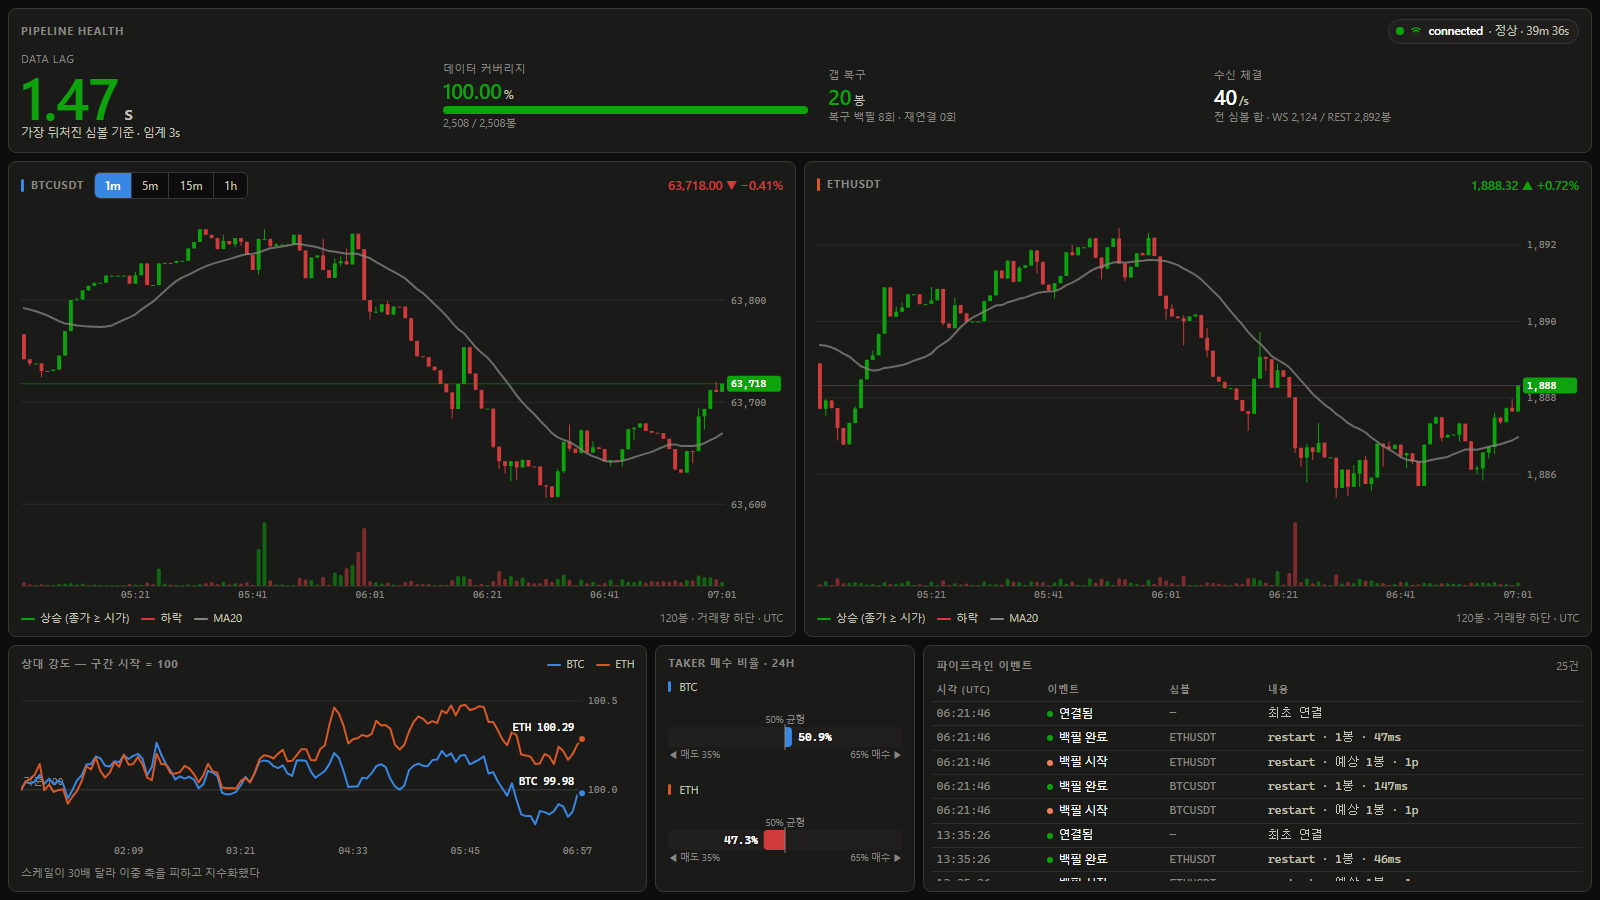
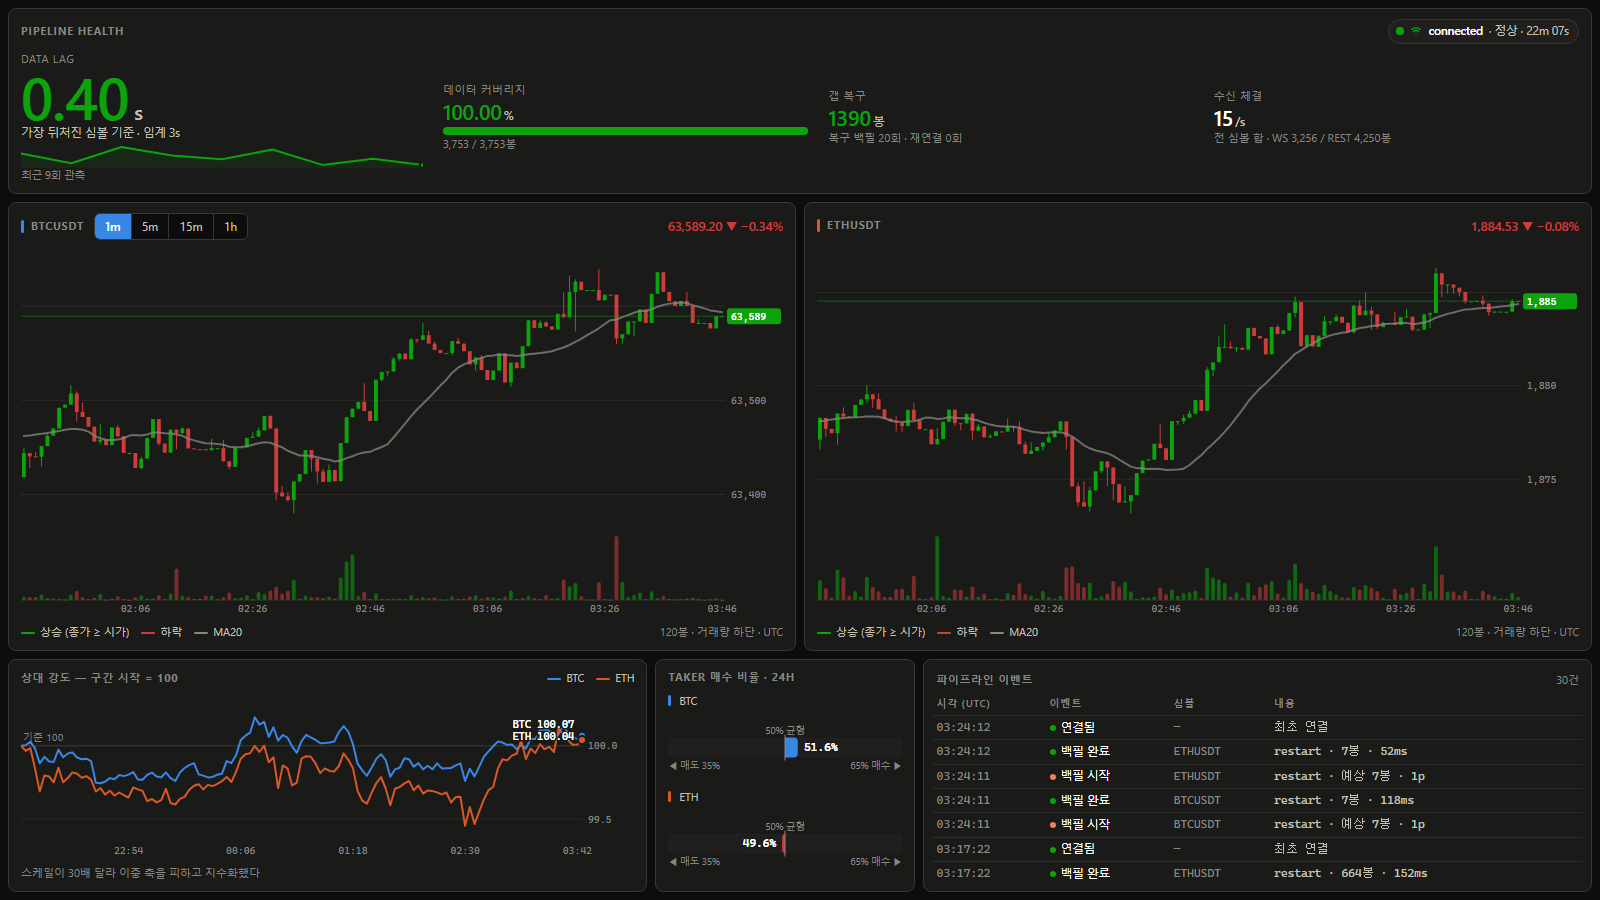
fix(web): 상대 강도 차트의 끝점 라벨이 서로 겹치던 문제
각 계열이 자기 끝점 기준으로만 라벨을 놓아, 마지막 값이 가까우면 두 라벨이
같은 자리에 그려져 글자가 뭉갰다.

이 차트는 구간 시작을 100 으로 지수화하므로 값이 서로 가까운 것이 예외가
아니라 기본에 가깝다. 구간이 짧을수록 더 그렇다 — 즉 상시로 겹친다.

위에서부터 순서대로 놓되 앞 라벨과 최소 간격 안으로 들어오면 아래로 민다.
점은 실제 위치에 그대로 둔다. 정확한 위치는 점이, 값은 라벨이 담당한다.

README 대문 스크린샷도 현재 화면으로 교체했다.

diff --git a/apps/web/src/components/SmallCharts.tsx b/apps/web/src/components/SmallCharts.tsx
@@ -60,6 +60,31 @@ export function IndexedChart({
   const y = (v: number): number => PAD_TOP + plotHeight - ((v - lo) / (hi - lo)) * plotHeight
   const xLabelStep = Math.max(1, Math.round(count / 5))
 
+  /**
+   * 끝점 라벨의 세로 위치.
+   *
+   * 각 계열이 자기 끝점 기준으로만 라벨을 놓으면, 마지막 값이 가까울 때 두 라벨이
+   * 같은 자리에 겹쳐 글자가 뭉갠다. 이 차트는 **구간 시작을 100 으로 지수화**하므로
+   * 값이 서로 가까운 것이 예외가 아니라 기본에 가깝다 — 특히 구간이 짧을 때 그렇다.
+   *
+   * 위에서부터 순서대로 놓되, 앞 라벨과 최소 간격 안으로 들어오면 아래로 민다.
+   * 점(마커)은 실제 위치에 그대로 둔다 — 정확한 위치는 점이, 값은 라벨이 담당한다.
+   */
+  const LABEL_GAP = 12
+  const labelY: Record<string, number> = {}
+  if (ready) {
+    let prev = -Infinity
+    for (const { symbol, value } of symbols
+      .map((symbol) => ({ symbol, value: points[count - 1]?.values[symbol] }))
+      .filter((entry): entry is { symbol: string; value: number } => entry.value !== undefined)
+      .sort((a, b) => b.value - a.value)) {
+      const wanted = y(value) - 8
+      const placed = wanted - prev < LABEL_GAP ? prev + LABEL_GAP : wanted
+      labelY[symbol] = Math.min(placed, PAD_TOP + plotHeight - 2)
+      prev = placed
+    }
+  }
+
   return (
     <div ref={hostRef} style={{ flex: 1, minHeight: 0, minWidth: 0 }}>
       {ready ? (
@@ -146,7 +171,7 @@ export function IndexedChart({
                     {/* 직접 라벨. 텍스트는 시리즈 색을 입지 않는다 — 정체성은 옆의 점이 담당 */}
                     <text
                       x={x(count - 1) - 8}
-                      y={y(lastValue) - 8}
+                      y={labelY[symbol] ?? y(lastValue) - 8}
                       textAnchor="end"
                       fill="var(--ink)"
                       fontSize={10.5}
